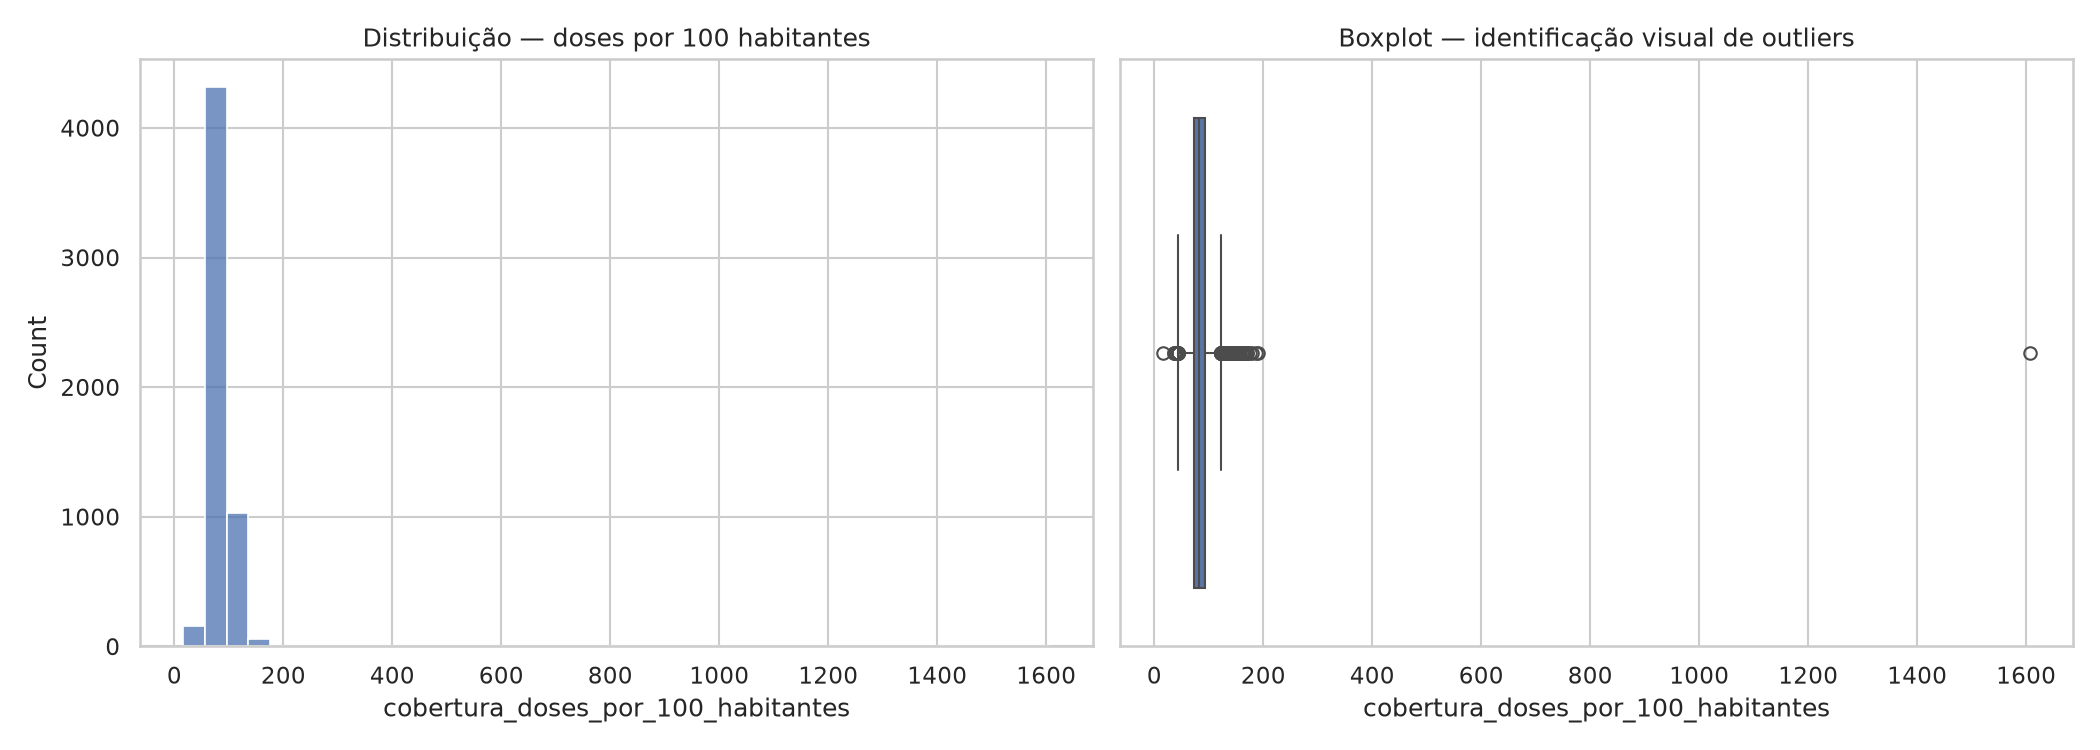
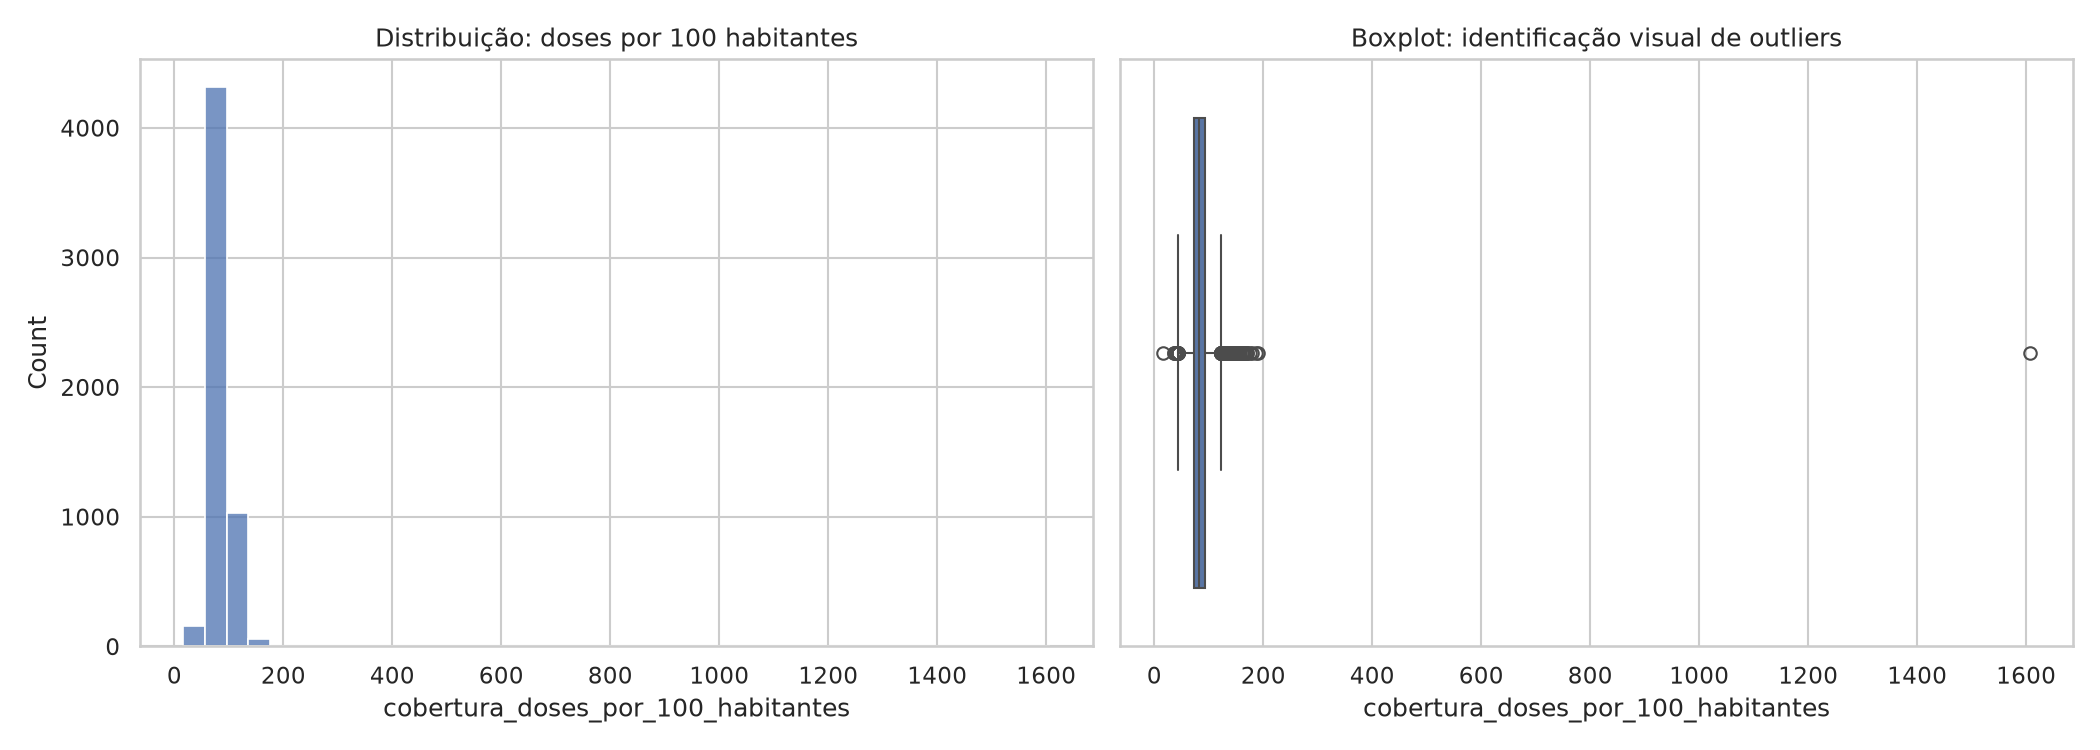
fix: alinha bucket names, corrige referencia de secao e dados no dicionario

Changed region(s): [[0.619, 0.0307, 0.8976, 0.0613], [0.1548, 0.0307, 0.4333, 0.0613]]

diff --git a/src/validate_setup.py b/src/validate_setup.py
@@ -18,7 +18,7 @@ except ModuleNotFoundError:
 MINIO_HOST = os.getenv("MINIO_HOST", "localhost")
 MINIO_API_PORT = os.getenv("MINIO_API_PORT", "9000")
 MINIO_CONSOLE_PORT = os.getenv("MINIO_CONSOLE_PORT", "9001")
-MINIO_BUCKETS = ("bronze", "silver", "gold")
+MINIO_BUCKETS = ("raw", "trusted", "refined")
 
 
 def check_endpoint(name: str, url: str) -> bool:

diff --git a/src/ingestion/download_ibge.py b/src/ingestion/download_ibge.py
@@ -13,7 +13,7 @@ from src.config import MINIO_ACCESS_KEY, MINIO_ENDPOINT, MINIO_SECRET_KEY
 
 
 SIDRA_URL = "https://apisidra.ibge.gov.br/values/t/6579/n6/all/v/9324/p/{year}"
-BUCKET_RAW = os.getenv("MINIO_RAW_BUCKET", "bronze")
+BUCKET_RAW = os.getenv("MINIO_RAW_BUCKET", "raw")
 
 
 def get_s3_client():

diff --git a/src/ingestion/download_pni.py b/src/ingestion/download_pni.py
@@ -25,7 +25,7 @@ HEADERS = {
     "Accept": "text/html,application/xhtml+xml,application/xml;q=0.9,image/webp,*/*;q=0.8",
 }
 
-BUCKET_RAW = os.getenv("MINIO_RAW_BUCKET", "bronze")
+BUCKET_RAW = os.getenv("MINIO_RAW_BUCKET", "raw")
 MONTH_ORDER = {
     "janeiro": 1,
     "fevereiro": 2,

diff --git a/docs/decisoes_limpeza.md b/docs/decisoes_limpeza.md
@@ -54,6 +54,12 @@ justificativa de cada uma:
 | GitHub Actions roda `pytest` a cada `push`/`pull request` na `main` (`.github/workflows/tests.yml`), sem subir MinIO no runner | Só é possível porque a limpeza foi desenhada desde o início como funções puras, sem I/O: `clean_pib_dataframe`, `_clean_and_aggregate_chunk`, `compute_coverage`, `meses_faltantes` recebem DataFrames/valores e devolvem DataFrames/valores, e só as funções finas em volta delas (`clean_and_upload`, `build_coverage`) tocam o MinIO. O CI testa exatamente a lógica de negócio, sem precisar simular a infraestrutura. |
 | CI cobre só a lógica de limpeza/cruzamento, não os notebooks nem a ingestão (`download_*.py`) | Os notebooks dependem de dado real no MinIO para ter valor (o objetivo deles é explorar, não validar regra de negócio) e os scripts de ingestão dependem de rede externa (SIDRA, OpenDataSUS): automatizá-los no CI exigiria mockar serviços externos, o que foge do escopo de uma disciplina de engenharia de dados aplicada e adicionaria manutenção sem ganho proporcional de confiança. |
 
+## 6. Nomes dos buckets do MinIO: `raw`/`trusted`/`refined`
+
+| Decisão | Justificativa |
+|---|---|
+| `docker-compose.yml` e `validate_setup.py` criam/checam os buckets `raw`, `trusted`, `refined` (não mais `bronze`/`silver`/`gold`) | Divergência encontrada na revisão final: o `docker-compose.yml` e o `validate_setup.py` originais criavam `bronze`/`silver`/`gold`, enquanto todo o resto do código (`clean_ibge.py`, `clean_pni.py`, `clean_pib.py`, `build_coverage.py`, `download_pib.py`) já usava por padrão `raw`/`trusted`/`refined`, e o README nunca documentou a variável de ambiente necessária para reconciliar isso. Como `raw`/`trusted`/`refined` é a convenção usada em todo o resto do projeto (estrutura de pastas no README, `docs/dicionario_dados.md`, todos os módulos de limpeza), alinhamos a infraestrutura a ela em vez do caminho inverso: menos arquivos para mudar, e mantém o vocabulário já consolidado na documentação. |
+
 ## Pendências conhecidas / próximos passos
 
 - ~~Faltam jul, set, out, nov e dez/2025~~ (**resolvido**): com
@@ -72,10 +78,13 @@ justificativa de cada uma:
   SIDRA, ano de referência 2023) como variável socioeconômica no lugar
   (`download_pib.py` + `clean_pib.py`); ver seção 3 acima para a
   justificativa completa dessa troca.
-- Este documento e `docs/dicionario_dados.md` foram inicialmente escritos
-  sem acesso aos dados reais do PNI (rede bloqueada no ambiente usado para
-  desenvolver o pipeline). Já validamos o schema real rodando `clean_pni.py`
-  contra os dados baixados no Codespace e ajustamos `COLUMN_CANDIDATES`
-  (ver decisão acima); falta ainda atualizar `docs/dicionario_dados.md` com
-  os nomes de coluna reais do PNI (hoje ele documenta só os nomes
-  hipotéticos originais).
+- ~~Este documento e `docs/dicionario_dados.md` foram inicialmente escritos
+  sem acesso aos dados reais do PNI~~ (**resolvido**): validamos o schema
+  real rodando `clean_pni.py` contra os dados baixados no Codespace,
+  ajustamos `COLUMN_CANDIDATES` (ver decisão acima) e atualizamos
+  `docs/dicionario_dados.md` com os nomes de coluna reais confirmados
+  (`co_municipio_paciente`, `dt_vacina`, `sg_imunobiologico`,
+  `co_dose_vacina`, `nu_idade_paciente`).
+- ~~Bucket names divergentes entre `docker-compose.yml`/`validate_setup.py`
+  (`bronze`/`silver`/`gold`) e o resto do código
+  (`raw`/`trusted`/`refined`)~~ (**resolvido**, ver seção 6 acima).

diff --git a/docs/dicionario_dados.md b/docs/dicionario_dados.md
@@ -52,18 +52,26 @@ seção de população acima); tratamento em `src/cleaning/clean_pib.py`.
 CSV mensal de doses aplicadas do PNI (formato original do OpenDataSUS: `;`
 como separador, encoding `latin1`), um arquivo por mês, dentro de um ZIP.
 
-As colunas exatas variam por ano/dataset; **confirme com
-`python -m src.ingestion.inspect_pni --ano <ano> --mes <mes>`** antes de
-assumir qualquer nome. Colunas esperadas (nomenclatura provável, no padrão
-DATASUS/RNDS usado em outros datasets de vacinação):
+Nomes de coluna confirmados contra o schema real do PNI (rodando
+`clean_pni.py`/`inspect_pni.py` contra os dados baixados no Codespace,
+ago/2026). Os nomes hipotéticos usados antes de termos acesso aos dados
+reais continuam como fallback em `COLUMN_CANDIDATES`
+(`src/cleaning/clean_pni.py`), caso o schema mude entre anos/datasets:
 
-| Campo lógico | Candidatos de nome de coluna |
-|---|---|
-| Código do município (paciente) | `paciente_endereco_coibgemunicipio`, `estabelecimento_municipio_codigo`, `co_municipio` |
-| Data de aplicação da dose | `vacina_dataaplicacao`, `data_aplicacao`, `dt_aplicacao` |
-| Nome/tipo da vacina | `vacina_nome`, `vacina_descricao` |
-| Dose (1ª, 2ª, reforço...) | `vacina_descricao_dose`, `dose` |
-| Idade do paciente | `paciente_idade` |
+| Campo lógico | Coluna real (confirmada) | Fallbacks hipotéticos |
+|---|---|---|
+| Código do município (paciente, residência) | `co_municipio_paciente` | `co_municipio_estabelecimento`, `paciente_endereco_coibgemunicipio`, `estabelecimento_municipio_codigo`, `co_municipio` |
+| Data de aplicação da dose | `dt_vacina` | `vacina_dataaplicacao`, `data_aplicacao`, `dt_aplicacao` |
+| Nome/tipo da vacina (sigla do imunobiológico) | `sg_imunobiologico` | `vacina_nome`, `vacina_descricao`, `no_vacina` |
+| Dose (1ª, 2ª, reforço...) | `co_dose_vacina` | `ds_tipo_dose`, `vacina_descricao_dose`, `dose`, `no_dose` |
+| Idade do paciente | `nu_idade_paciente` | `paciente_idade`, `idade` |
+
+Usamos o município de **residência** do paciente (`co_municipio_paciente`),
+não o do estabelecimento onde a dose foi aplicada: a métrica de cobertura
+usa como denominador a população residente (IBGE), então o numerador
+(doses) precisa seguir o mesmo critério, senão municípios-polo (com
+grandes hospitais/postos) ficariam com cobertura artificialmente inflada
+às custas dos municípios vizinhos.
 
 ## Camada `trusted` (dado limpo e padronizado)
 
@@ -101,7 +109,7 @@ individual):
 
 | Coluna | Tipo | Descrição |
 |---|---|---|
-| `codigo_municipio` | string (7 dígitos) | Código IBGE do município |
+| `codigo_municipio` | string (**6 dígitos**, DATASUS/SUS) | Código do município no padrão DATASUS, sem o dígito verificador do IBGE. Diferente da camada `refined`, que usa o código IBGE de 7 dígitos: ver `docs/decisoes_limpeza.md` (seção 2) para por que os dois sistemas de código coexistem e como são cruzados em `build_coverage.py` |
 | `ano_mes` | string (`YYYY-MM`) | Mês de aplicação |
 | `vacina_nome` | string | Nome/tipo da vacina (quando a coluna existe no raw) |
 | `doses_aplicadas` | int64 | Contagem de doses naquele município/mês/vacina |
